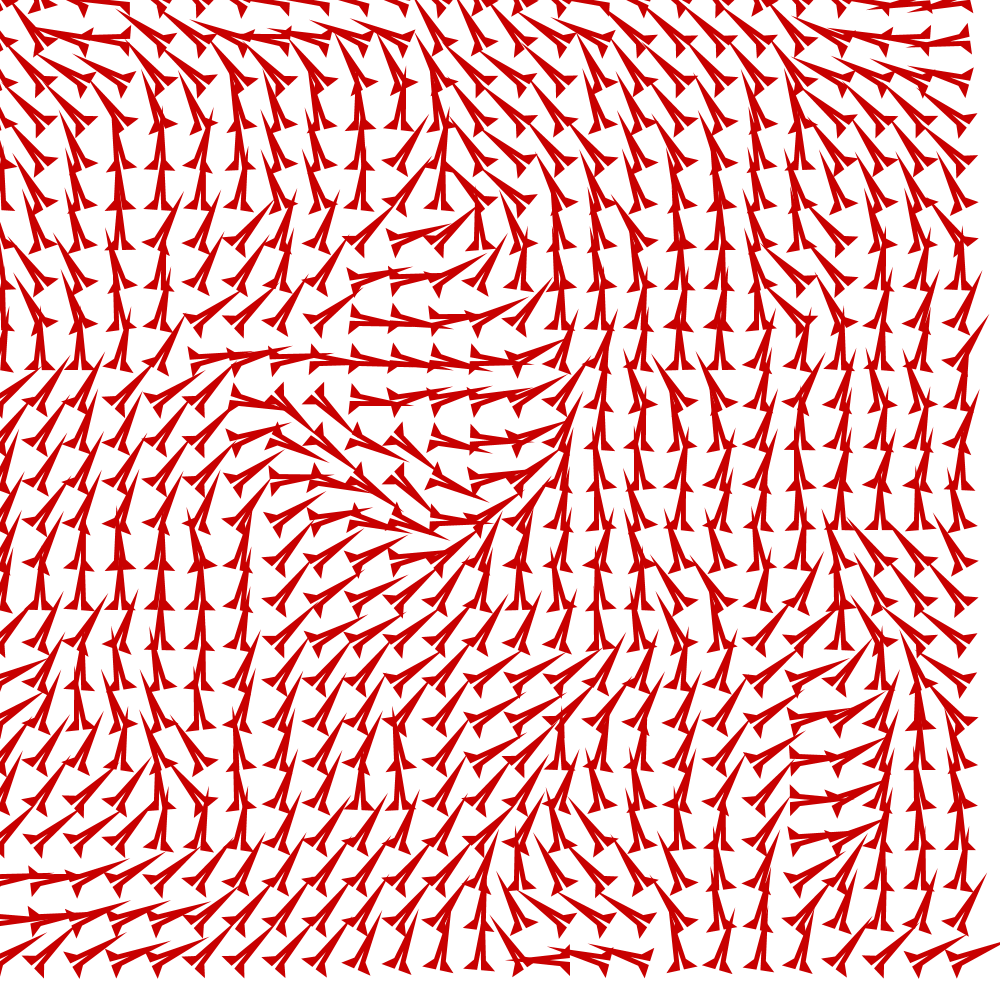
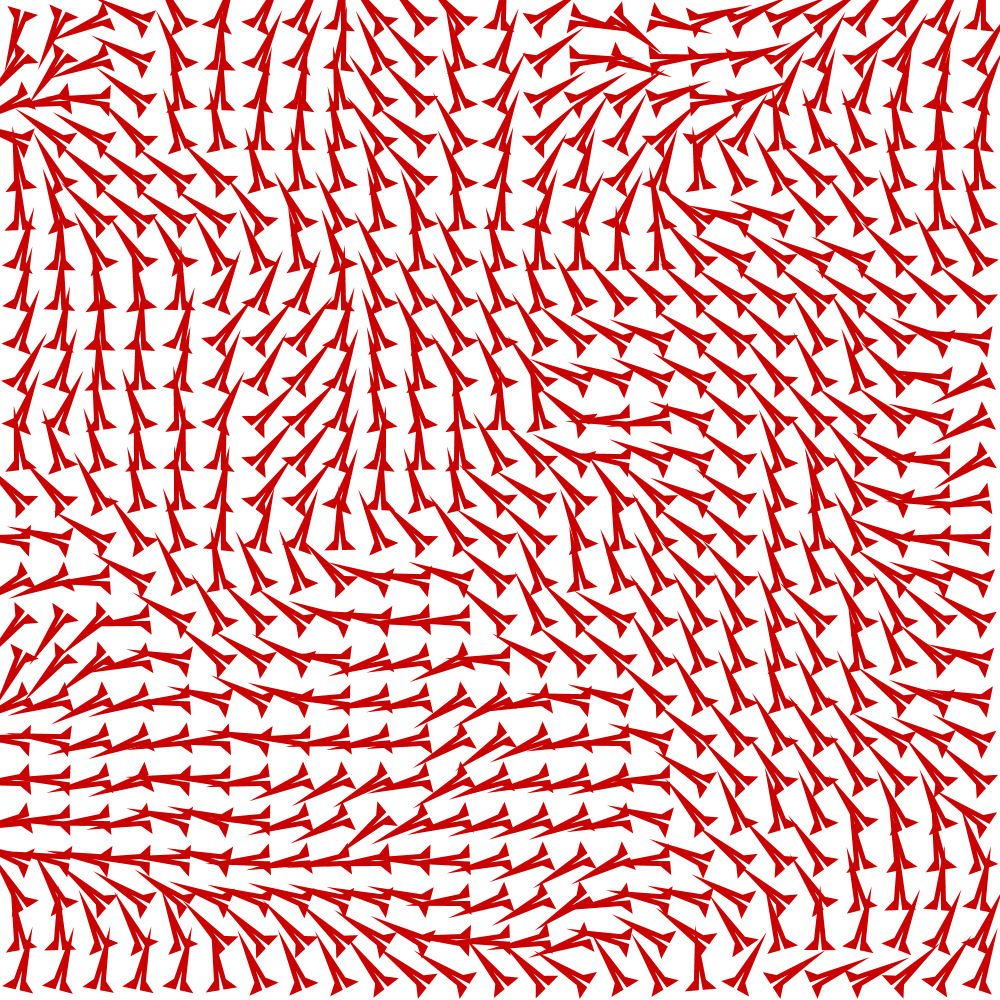
Credit Chris Coleman

diff --git a/_posts/2018-01-07-generative_shape.md b/_posts/2018-01-07-generative_shape.md
@@ -10,11 +10,11 @@ keywords: noise, jruby, processing, generative
 ### Sketch in JRubyArt
 ```ruby
 #
-#  Example of using noise to rotate a grid of arrows
-#
+#  Example of using noise to rotate a grid of arrows after an original by
+#  Chris Coleman @digitalcoleman
 load_library :pdf
 attr_reader :version, :time_seed, :save_one_frame, :arrow
-
+STEP = 40
 POINTS = [
   [0, -55], [6, 0], [16, 10], [2, 10], [0, -10], [-2, 10], [-16, 10], [-6, 0]
 ].freeze
@@ -34,9 +34,9 @@ def draw
   begin_record(PDF, data_path("Line_#{version}.pdf")) if (save_one_frame == true)
   background(255)
   @time_seed = millis / 5000.0 # change noise over time
-  grid(width, height, 40, 40) do |cx, cy|  # iterate down and across the frame
+  grid(width, height, STEP, STEP) do |cx, cy|  # iterate down and accross the page
     push_matrix
-    translate(cx, cy) # set the position of each arrow
+    translate(cx + STEP / 2, cy + STEP / 2) # set the position of each arrow
     # rotate using noise
     rotate(4.0 * PI * noise(cx / 400.0, cy / 400.0, time_seed))
     # scale(1)
